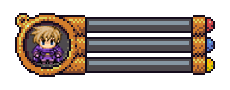
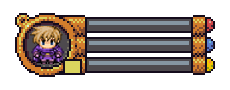
Showing level in HUD

Changed region(s): [[0.2739, 0.6444, 0.3652, 0.8222]]

diff --git a/Myng/Graphics/GUI.cs b/Myng/Graphics/GUI.cs
@@ -7,6 +7,7 @@ namespace Myng.Graphics
 {
     public class GUI
     {
+        #region Fiels
         private Texture2D gui;
         private Texture2D hpBar;
         private Texture2D manaBar;
@@ -17,21 +18,28 @@ namespace Myng.Graphics
         private Vector2 manaOrigin;
         private Vector2 xpOrigin;
 
-        private float scale;
+        private SpriteFont font;
 
+        private float scale;
+        #endregion
+
+        #region Constructors
         public GUI()
         {
             gui = State.Content.Load<Texture2D>("GUI/MyngGUI");
             hpBar = State.Content.Load<Texture2D>("GUI/HPBar");
             manaBar = State.Content.Load<Texture2D>("GUI/ManaBar");
             xpBar = State.Content.Load<Texture2D>("GUI/XPBar");
+            font = State.Content.Load<SpriteFont>("Fonts/Font");
             scale = 1.5f;
             guiOrigin = new Vector2((float)gui.Width / 2, (float)gui.Height / 2);
             hpOrigin = new Vector2((float)hpBar.Width / 2, (float)hpBar.Height / 2);
             manaOrigin = new Vector2((float)manaBar.Width / 2, (float)manaBar.Height / 2);
             xpOrigin = new Vector2((float)xpBar.Width / 2, (float)xpBar.Height / 2);
         }
+        #endregion
 
+        #region Methods
         public void Draw(SpriteBatch spriteBatch)
         {
             Vector2 guiPosition = -Camera.ScreenOffset + new Vector2(40,10);
@@ -52,6 +60,18 @@ namespace Myng.Graphics
             Rectangle xpSource = new Rectangle(0, 0, (int)((xpBar.Width * Game1.Player.XP) / Game1.Player.NextLevelXP), xpBar.Height);
             spriteBatch.Draw(texture: xpBar, position: xpPosition + xpOrigin, sourceRectangle: xpSource, color: Color.White,
                    rotation: 0, origin: xpOrigin, scale: scale, effects: SpriteEffects.None, layerDepth: Layers.InventoryItem);
+
+            if (Game1.Player.Level > 9)
+            {
+                Vector2 levelTextPosition = guiPosition + new Vector2(66, 1 + 45 * scale);
+                spriteBatch.DrawString(font, Game1.Player.Level.ToString(), levelTextPosition - new Vector2(Game1.Player.Level.ToString().Length * 13, 0), Color.Black);
+            }
+            else
+            {
+                Vector2 levelTextPosition = guiPosition + new Vector2(46, 1 + 45 * scale);
+                spriteBatch.DrawString(font, Game1.Player.Level.ToString(), levelTextPosition, Color.Black);
+            }
         }
+        #endregion
     }
 }

diff --git a/Myng/Graphics/Player.cs b/Myng/Graphics/Player.cs
@@ -31,6 +31,14 @@ namespace Myng.Graphics
                 return nextLevelXP;
             }
         }
+
+        public int Level
+        {
+            get
+            {
+                return level;
+            }
+        }
         #endregion
 
         #region Fields
